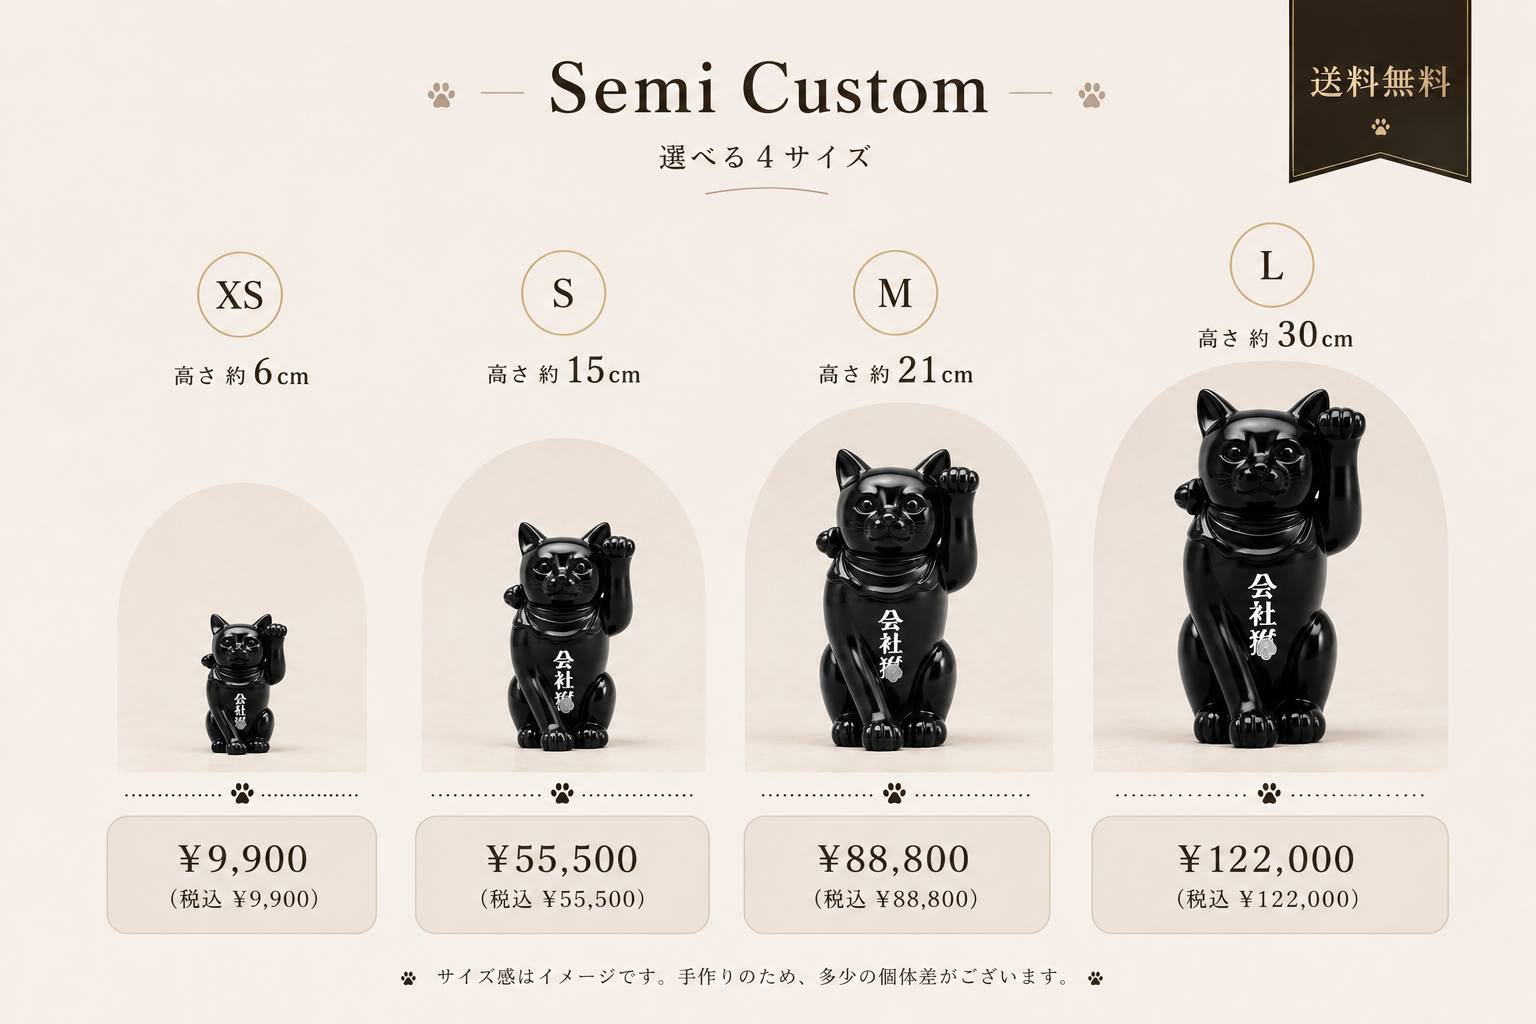
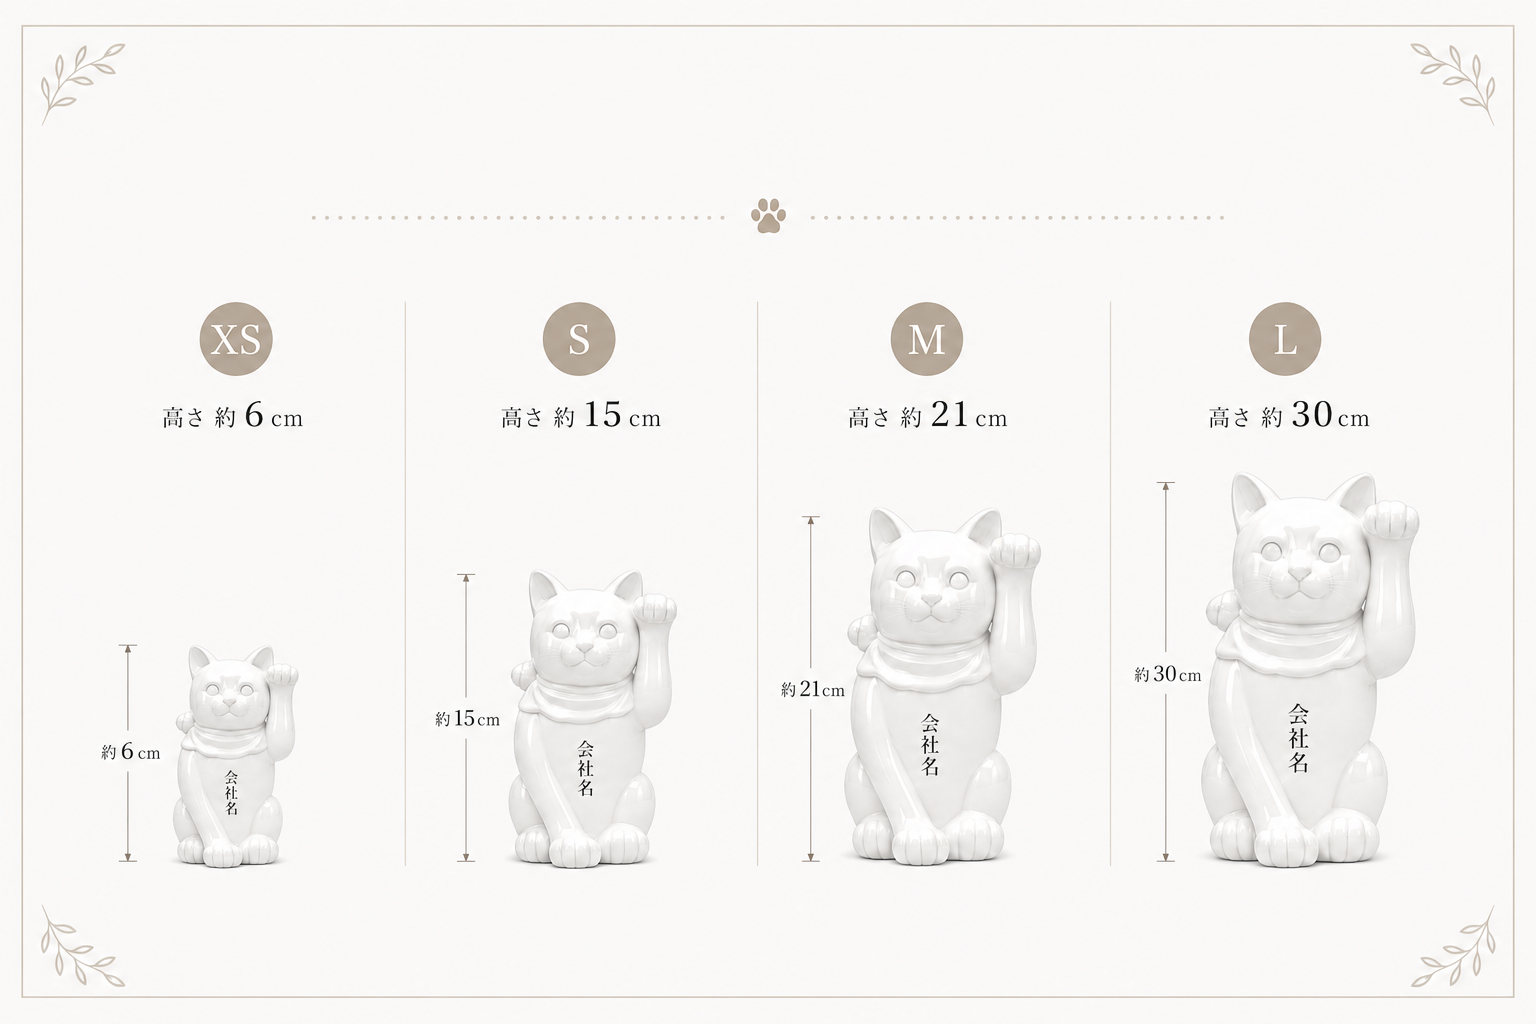
Replace size chart with single image

diff --git a/index.html b/index.html
@@ -286,24 +286,14 @@
           </h2>
           <p class="size-subtitle">Size Chart</p>
 
-          <div class="size-image-grid">
-            <figure class="size-image-wrap">
-              <img
-                class="size-chart-image"
-                src="assets/size-chart-replacement.png"
-                alt="Size chart reference"
-                loading="lazy"
-              />
-            </figure>
-            <figure class="size-image-wrap">
-              <img
-                class="size-chart-image"
-                src="assets/size-chart-detail.png"
-                alt="Additional size chart reference"
-                loading="lazy"
-              />
-            </figure>
-          </div>
+          <figure class="size-image-wrap">
+            <img
+              class="size-chart-image"
+              src="assets/size-chart-replacement.png"
+              alt="Size chart reference"
+              loading="lazy"
+            />
+          </figure>
         </div>
       </section>
       <section class="section origin-section">

diff --git a/styles.css b/styles.css
@@ -1214,13 +1214,6 @@ h3 {
   font-weight: 600;
 }
 
-.size-image-grid {
-  display: grid;
-  grid-template-columns: repeat(2, minmax(0, 1fr));
-  align-items: start;
-  gap: clamp(1rem, 2.6vw, 2rem);
-}
-
 .size-image-wrap {
   margin: 0;
   display: flex;
@@ -1228,7 +1221,7 @@ h3 {
 }
 
 .size-chart-image {
-  width: 100%;
+  width: min(980px, 100%);
   height: auto;
   display: block;
   border: 1px solid var(--line);
@@ -1963,10 +1956,6 @@ h3 {
 
   .collections-item {
     flex-basis: min(76vw, 300px);
-  }
-
-  .size-image-grid {
-    grid-template-columns: 1fr;
   }
 
   .care-biography {